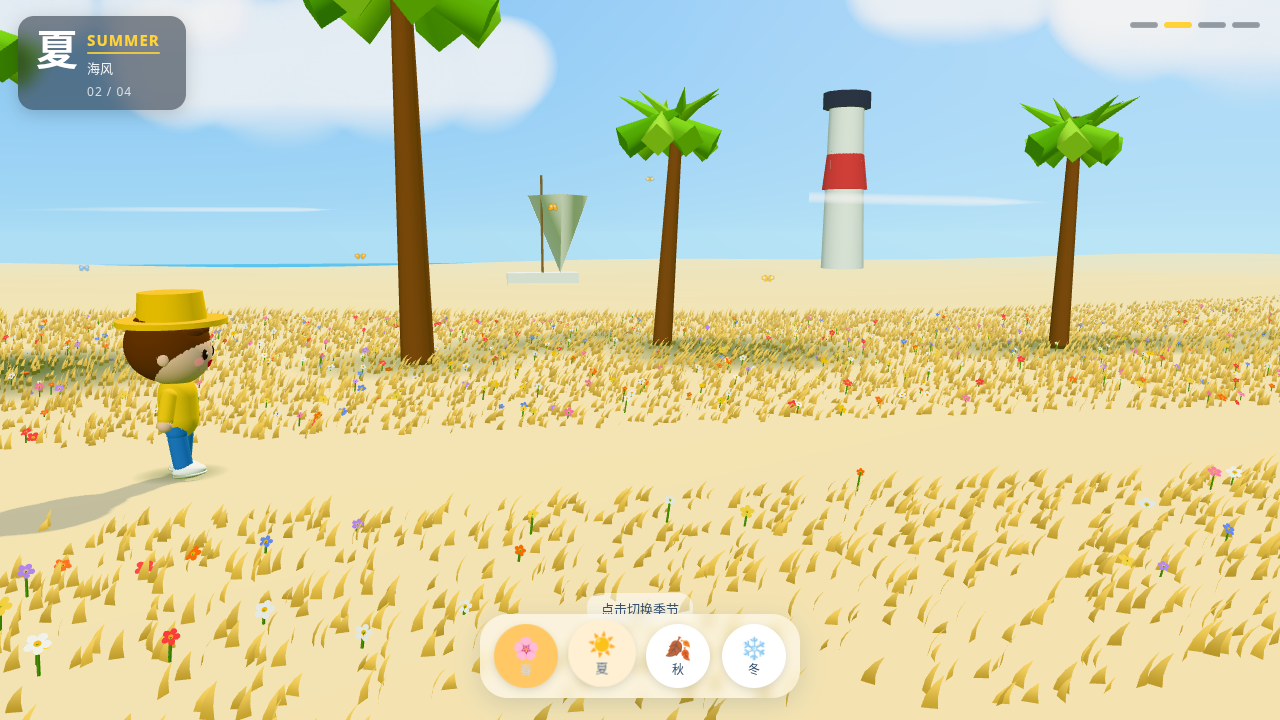
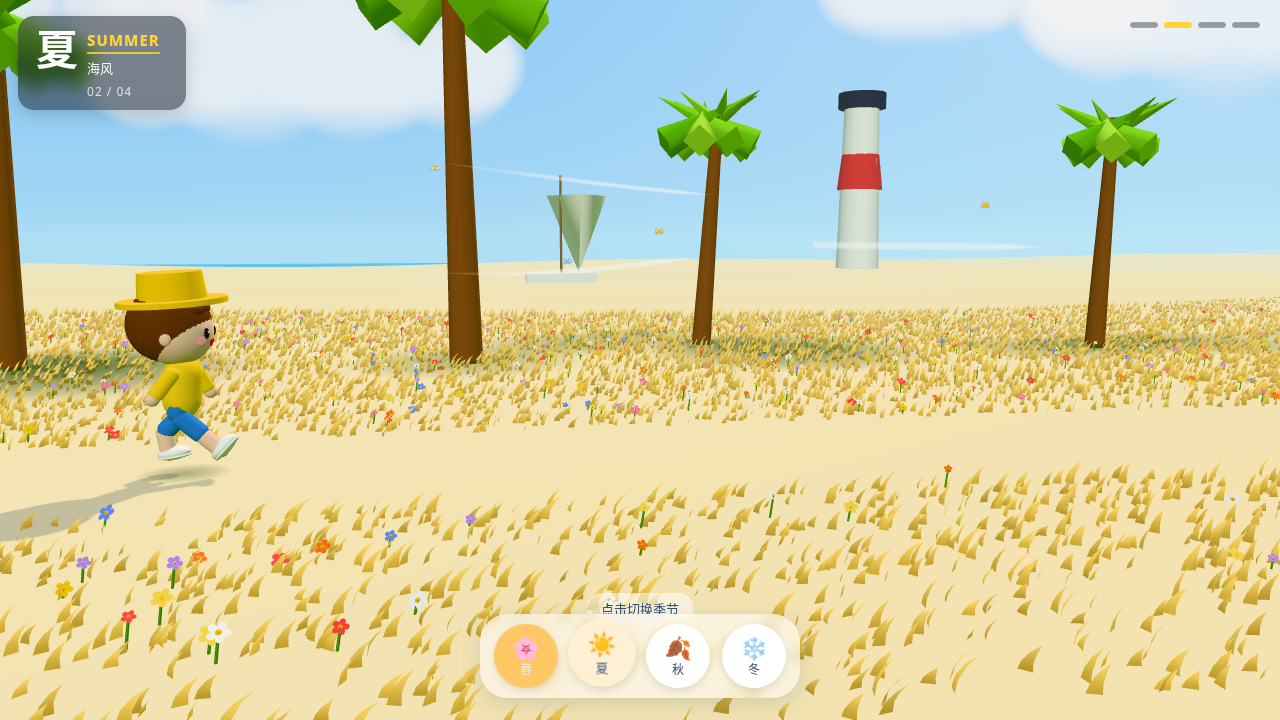
人物腿更长、两段骨骼；走路更潇洒有节奏
Two-bone thigh+shin (~+40%), higher hip/torso/head; stylish gait with stride, knee bend, lean, bob, delayed arms.

diff --git a/main.js b/main.js
@@ -472,16 +472,20 @@ function makeKid(o) {
   const body = new THREE.Group(); k.add(body);
   const legCol = o.legs || JEANS;
   const legs = [];
+  // Two-bone lankier chibi legs (~+40% length); hip higher so feet stay on ground
+  const thighLen = 0.22, shinLen = 0.19, hipY = 0.48;
   for (const sx of [-1, 1]) {
-    const nBefore = body.children.length;
-    const leg = cap(0.068, 0.2, legCol); leg.position.set(sx * 0.08, 0.2, 0); body.add(leg);
-    const shoe = sph(0.09, o.shoes); shoe.scale.set(0.9, 0.6, 1.35); shoe.position.set(sx * 0.085, 0.045, 0.035); body.add(shoe);
-    const sole = sph(0.09, 0xffffff); sole.scale.set(0.92, 0.25, 1.37); sole.position.set(sx * 0.085, 0.02, 0.035); body.add(sole);
-    const piv = new THREE.Group(); piv.position.set(sx * 0.08, 0.32, 0);
-    for (const c of body.children.slice(nBefore)) { c.position.x -= sx * 0.08; c.position.y -= 0.32; piv.add(c); }
-    body.add(piv); legs.push(piv);
+    const thighCol = o.shorts ? o.shorts : legCol;
+    const shinCol = o.shorts ? SKIN : legCol;
+    const piv = new THREE.Group(); piv.position.set(sx * 0.085, hipY, 0);
+    const thigh = cap(0.07, thighLen - 0.06, thighCol); thigh.position.y = -thighLen * 0.5; piv.add(thigh);
+    const shinPiv = new THREE.Group(); shinPiv.position.y = -thighLen; piv.add(shinPiv);
+    const shin = cap(0.062, shinLen - 0.05, shinCol); shin.position.y = -shinLen * 0.5; shinPiv.add(shin);
+    const shoe = sph(0.09, o.shoes); shoe.scale.set(0.9, 0.6, 1.35); shoe.position.set(0, -shinLen + 0.02, 0.035); shinPiv.add(shoe);
+    const sole = sph(0.09, 0xffffff); sole.scale.set(0.92, 0.25, 1.37); sole.position.set(0, -shinLen - 0.005, 0.035); shinPiv.add(sole);
+    piv.userData = { thigh, shin: shinPiv }; body.add(piv); legs.push(piv);
   }
-  const torso = new THREE.Group(); torso.position.y = 0.36; body.add(torso);
+  const torso = new THREE.Group(); torso.position.y = 0.52; body.add(torso);
   const tors = cap(0.165, 0.16, o.shirt); tors.scale.set(1, 1, 0.82); tors.position.y = 0.17; torso.add(tors);
   if (o.vest) {
     const vest = new THREE.Mesh(new THREE.BoxGeometry(0.36, 0.32, 0.22), M(o.vest)); vest.position.set(0, 0.18, 0.02); torso.add(vest);
@@ -508,7 +512,7 @@ function makeKid(o) {
     piv.rotation.z = sx * 0.35; piv.rotation.x = 0;
     piv.userData = { base: piv.rotation.z, baseX: piv.rotation.x, sx }; arms.push(piv);
   }
-  const head = new THREE.Group(); head.position.y = 0.95; body.add(head);
+  const head = new THREE.Group(); head.position.y = 1.11; body.add(head);
   const skull = sph(0.27, SKIN, 40, 28); skull.scale.set(1.02, 0.95, 0.95); head.add(skull);
   const onHead = (lat, lon, r = 0.27) => new THREE.Vector3(Math.sin(lon) * Math.cos(lat) * r * 1.02, Math.sin(lat) * r * 0.95, Math.cos(lon) * Math.cos(lat) * r * 0.95);
   for (const sx of [-1, 1]) {
@@ -557,7 +561,7 @@ const kids = [];
   scene.add(k);
   Object.assign(k.userData, {
     season: name, blob: blob(1, pathCZ(1), 0.38, 1.1), heading: Math.PI / 2,
-    walkPh: 0, w: { walk: 1, sit: 0, look: 0 }, act: 'walk', speed: 1.15,
+    walkPh: 0, w: { walk: 1, sit: 0, look: 0 }, act: 'walk', speed: 1.22,
   });
   if (d.umbrella) {
     const g = new THREE.Group();
@@ -832,19 +836,32 @@ function update(dt) {
   hero.userData.heading = Math.PI / 2;
   hero.rotation.y = hero.userData.heading;
   hero.userData.blob.position.set(hero.position.x, hgt(hero.position.x, hero.position.z) + 0.03, hero.position.z + 0.05);
-  hero.userData.walkPh += dt * hero.userData.speed * 10;
-  const wc = Math.sin(hero.userData.walkPh), ww = 1;
+  hero.userData.walkPh += dt * hero.userData.speed * 11.5;
+  const ph = hero.userData.walkPh;
+  const wc = Math.sin(ph), ww = 1;
+  const armW = Math.sin(ph - 0.28); // arms slightly delayed vs legs
   const u = hero.userData;
-  u.legs.forEach((l, i) => { l.rotation.x = (i ? 1 : -1) * wc * 0.5 * ww; l.rotation.z = 0; });
-  u.body.position.y = Math.abs(Math.cos(u.walkPh)) * 0.014 * ww;
-  u.torso.scale.y = 1 + Math.sin(simTime * 1.6 + u.ph) * 0.012; u.torso.rotation.x = 0;
-  u.head.rotation.x = 0; u.head.rotation.z = Math.sin(simTime * 0.6 + u.ph) * 0.03; u.head.position.set(0, 0.95, 0);
+  const stride = 0.82; // thigh peak ~0.7–0.9 rad
+  u.legs.forEach((l, i) => {
+    const side = i ? 1 : -1; // clear opposite L/R phase
+    const thighAng = side * wc * stride * ww;
+    l.rotation.x = thighAng; l.rotation.z = 0;
+    // Knee folds on swing leg when thigh is forward/up
+    const forward = Math.max(0, side * wc);
+    if (l.userData.shin) l.userData.shin.rotation.x = -forward * 0.95 * ww;
+  });
+  // Double-frequency step bob
+  u.body.position.y = Math.abs(Math.sin(ph * 2)) * 0.03 * ww;
+  u.torso.scale.y = 1 + Math.sin(simTime * 1.6 + u.ph) * 0.012;
+  u.torso.rotation.x = 0.1; // subtle forward lean
+  u.torso.rotation.y = -wc * 0.07 * ww; // shoulder/torso yaw swagger
+  u.head.rotation.x = -0.04; u.head.rotation.z = Math.sin(simTime * 0.6 + u.ph) * 0.03; u.head.position.set(0, 1.11, 0);
   u.arms.forEach((a, i) => {
     const sx = a.userData.sx;
     if (u.umb && i === 1) { a.rotation.z = 2.6; a.rotation.x = -0.15; }
-    else { a.rotation.z = sx * 0.3; a.rotation.x = (i ? -1 : 1) * wc * 0.42 * ww; }
+    else { a.rotation.z = sx * 0.3; a.rotation.x = (i ? -1 : 1) * armW * 0.55 * ww; }
   });
-  if (u.umb) { u.umb.g.visible = true; u.umb.g.position.set(0.1, 0.88 + u.body.position.y, 0); u.umb.can.scale.set(1, 1, 1); }
+  if (u.umb) { u.umb.g.visible = true; u.umb.g.position.set(0.1, 1.04 + u.body.position.y, 0); u.umb.can.scale.set(1, 1, 1); }
 
   kids.forEach((kd, i) => {
     if (!kd.position) return;

diff --git a/index.html b/index.html
@@ -56,6 +56,6 @@ document.querySelectorAll('#ui button').forEach(function(b){ b.addEventListener(
   if (window.setWeather) window.setWeather(b.dataset.w); else window.__pendingWeather = b.dataset.w; }); });
 window.addEventListener('error', function(e){ var d=document.getElementById('err'); d.style.display='block'; d.textContent='3D 场景加载出错：' + (e.message||e); });
 </script>
-<script type="module" src="./main.js?v=1792739200"></script>
+<script type="module" src="./main.js?v=1792751200"></script>
 </body>
 </html>
